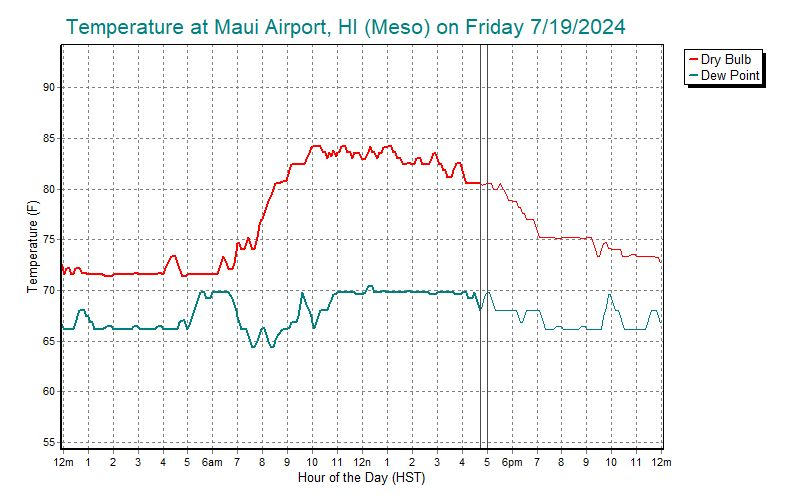
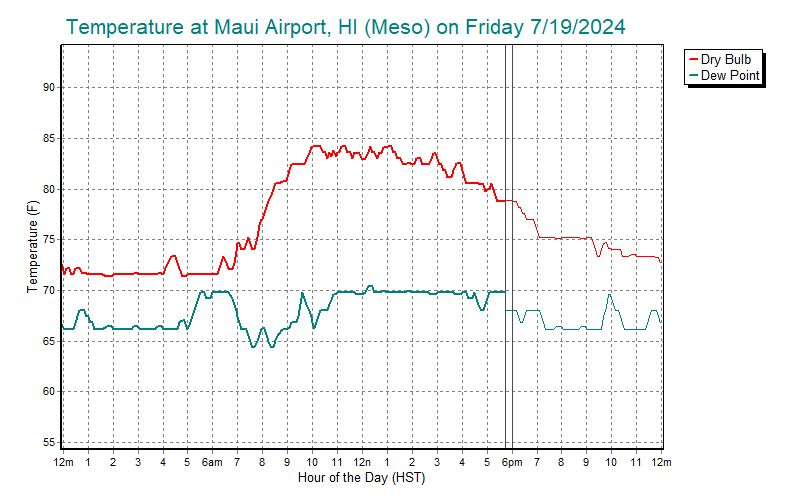
another update

Changed region(s): [[0.6068, 0.36, 0.6675, 0.42], [0.6068, 0.57, 0.6372, 0.63]]

diff --git a/charts.html b/charts.html
@@ -88,7 +88,7 @@
 	<p><b><font face="Arial" size="5">Samples from Rosy.asp</font></b></p>
    </div>
    <p><span>
-(24-hour charts updated Friday, July 19, 2024 at 10:00PM Central).
+(24-hour charts updated Friday, July 19, 2024 at 11:00PM Central).
    </span></p>
    <p>The orginal ASP page is named Rosy, a nickname windsurfers from the Tri-Cities gave Roosevelt, a sailing site on the east end of the Columbia River gorge.</p>
 	<p>This first pair of sample charts, wind and temperature, is updated every 

diff --git a/charts_input.html b/charts_input.html
@@ -88,7 +88,7 @@
 	<p><b><font face="Arial" size="5">Samples from Rosy.asp</font></b></p>
    </div>
    <p><span>
-(24-hour charts updated Friday, July 19, 2024 at 10:00PM Central).
+(24-hour charts updated Friday, July 19, 2024 at 11:00PM Central).
    </span></p>
    <p>The orginal ASP page is named Rosy, a nickname windsurfers from the Tri-Cities gave Roosevelt, a sailing site on the east end of the Columbia River gorge.</p>
 	<p>This first pair of sample charts, wind and temperature, is updated every 
